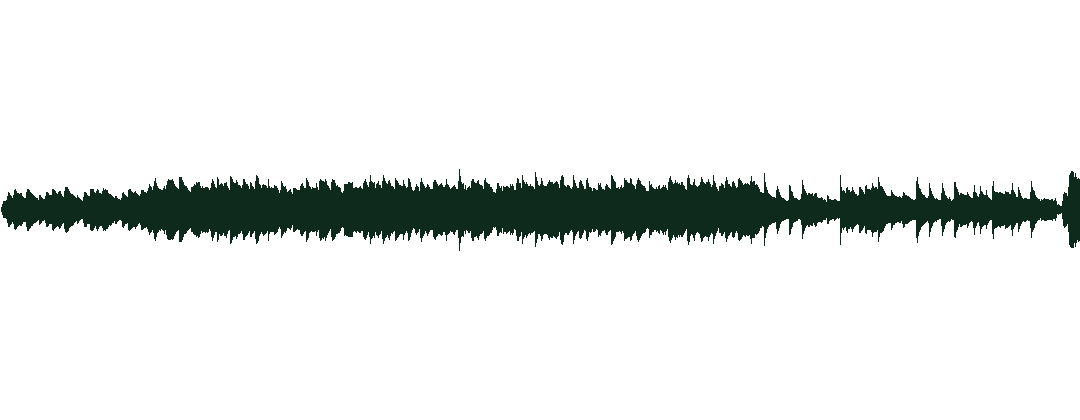
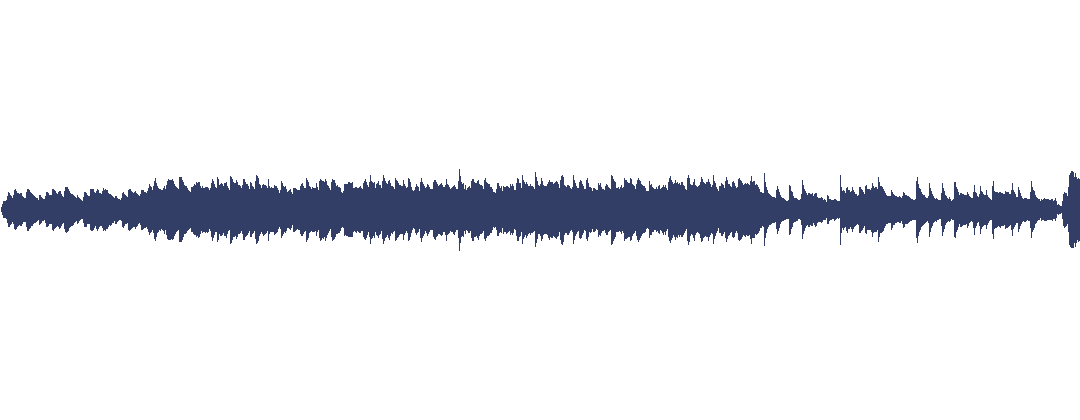
FEAT: the Pages site takes the Digital Samba design system (Sergiy Pasichnyk's restyle as built in ds-calendar): system UI type, DS blue actions, a navy field, radii 4/8/12, and the footer says it is not made by Anthropic
Claude-Session: https://claude.ai/code/session_01PgLv3bh7g33YfCZwgboeXq

Changed region(s): [[0.0, 0.4024, 1.0, 0.5881]]

diff --git a/site/style.css b/site/style.css
@@ -1,16 +1,21 @@
-/* claude-code-video-toolkit. Direction: the sentence is the layout (taste-skill, seed 1558565784).
-   One face (Switzer), bottle-green ink on off-white, yellow as the one accent and the footer field. */
+/* claude-code-video-toolkit. Composition: the sentence is the layout (taste-skill, seed 1558565784).
+   Colour and type: the Digital Samba design system (Sergiy Pasichnyk's DS restyle, SAMBA-9486, as built in
+   ds-calendar): system UI type, DS blue #3771e0 for actions, navy #323E66 for the dark field, radii 4/8/12. */
 :root {
-  --bg: #f7f7f7;
-  --surface: #ebebeb;
-  --ink: #0d2a1c;
-  --muted: #5f6b64;
-  --accent: #f6e016;
-  --accent-strong: #e8d000;
-  --accent-ink: #0d2a1c;
+  --bg: #ffffff;
+  --surface: #f1f2f4;
+  --ink: #121418;
+  --muted: #5e667a;
+  --accent: #3771e0;
+  --accent-strong: #2f63c9;
+  --accent-ink: #ffffff;
+  --navy: #323e66;
+  --navy-deep: #232d49;
+  --on-dark: #ffffff;
+  --on-dark-muted: #c9cfe0;
 
-  --face: "Switzer", system-ui, -apple-system, "Segoe UI", sans-serif;
-  --code: ui-monospace, SFMono-Regular, Menlo, Consolas, monospace;
+  --face: system-ui, -apple-system, "Segoe UI", Roboto, Arial, Helvetica, sans-serif;
+  --code: ui-monospace, SFMono-Regular, Menlo, Consolas, monospace; /* taste-skill-ignore: used only by pre and code */
 
   /* five sizes */
   --step-small: clamp(0.875rem, 0.84rem + 0.1vw, 0.9375rem);
@@ -22,7 +27,8 @@
 
   --margin: clamp(20px, 2.8vw, 40px);
   --gap-section: clamp(112px, 14vw, 220px);
-  --radius: 6px;
+  --radius: 8px;
+  --radius-frame: 12px;
 
   --ease-out: cubic-bezier(0.22, 1, 0.36, 1);
   --ease-expo: cubic-bezier(0.16, 1, 0.3, 1);
@@ -49,7 +55,7 @@ a { color: inherit; }
 .frame { padding-left: var(--margin); padding-right: var(--margin); }
 .grid { display: grid; grid-template-columns: repeat(12, minmax(0, 1fr)); column-gap: clamp(12px, 1.6vw, 24px); }
 
-h1, h2, h3 { font-weight: 600; letter-spacing: -0.04em; line-height: 0.95; margin: 0; }
+h1, h2, h3 { font-weight: 700; letter-spacing: -0.035em; line-height: 0.98; margin: 0; }
 h2 { font-size: var(--step-head); }
 p { margin: 0; }
 
@@ -57,7 +63,7 @@ p { margin: 0; }
   text-decoration-thickness: 0.07em; transition: text-decoration-color var(--t-hover) ease; }
 .button {
   display: inline-block; background: var(--accent); color: var(--accent-ink); text-decoration: none;
-  font-weight: 500; padding: 0.7em 1.1em; border-radius: var(--radius); border: 0; font: inherit; cursor: pointer;
+  font-weight: 700; padding: 0.7em 1.1em; border-radius: var(--radius); border: 0; font: inherit; cursor: pointer;
   transition: transform var(--t-press) var(--ease-out), background-color var(--t-hover) ease;
 }
 .button:active { transform: scale(0.97); }
@@ -68,7 +74,7 @@ p { margin: 0; }
 
 /* navigation */
 .nav { display: flex; align-items: center; justify-content: space-between; gap: 16px; padding-top: 22px; padding-bottom: 22px; }
-.nav .mark { font-weight: 600; text-decoration: none; letter-spacing: -0.02em; }
+.nav .mark { font-weight: 700; text-decoration: none; letter-spacing: -0.02em; }
 .nav ul { display: flex; gap: clamp(14px, 2vw, 28px); list-style: none; margin: 0; padding: 0; align-items: center; }
 .nav ul a:not(.button) { text-decoration: none; }
 @media (max-width: 720px) { .nav .hide-sm { display: none; } }
@@ -79,7 +85,7 @@ p { margin: 0; }
 .hero h1 .line { display: block; }
 .slot {
   display: inline-block; vertical-align: baseline; position: relative; top: 0.06em;
-  height: 0.74em; width: 1.95em; border-radius: 0.09em; overflow: hidden; background: var(--surface);
+  height: 0.74em; width: 1.95em; border-radius: 0.06em; overflow: hidden; background: var(--surface);
 }
 .slot video, .slot img { width: 100%; height: 100%; object-fit: cover; }
 .hero .lede { max-width: 34em; margin-top: clamp(28px, 3vw, 44px); font-size: var(--step-lead); line-height: 1.35; }
@@ -88,12 +94,12 @@ p { margin: 0; }
 
 section { margin-top: var(--gap-section); }
 .band { margin: 0; }
-.band img { width: 100%; height: auto; aspect-ratio: 1920 / 822; object-fit: cover; }
+.band img { width: 100%; border-radius: 0; height: auto; aspect-ratio: 1920 / 822; object-fit: cover; }
 .band figcaption { font-size: var(--step-small); color: var(--muted); margin-top: 12px; }
 
 /* work: names as one paragraph */
 .names-h { font-size: var(--step-head); margin-bottom: 28px; }
-.names { font-size: var(--step-statement); line-height: 1.3; font-weight: 500; letter-spacing: -0.025em; max-width: 60ch; }
+.names { font-size: var(--step-statement); line-height: 1.3; font-weight: 400; letter-spacing: -0.025em; max-width: 60ch; }
 .names a { text-decoration: none; color: var(--muted); transition: color var(--t-hover) ease; }
 .names a .t { display: inline-block; vertical-align: -0.16em; height: 1.05em; width: 1.75em; margin: 0 0.08em 0 0.22em;
   border-radius: 0.08em; overflow: hidden; transform-origin: left center; transition: transform var(--t-hover) var(--ease-out); }
@@ -106,18 +112,18 @@ section { margin-top: var(--gap-section); }
 
 /* how it works: drag through the stages */
 .stages { display: grid; grid-template-columns: 1fr 1fr; min-height: 80svh; margin-left: calc(var(--margin) * -1); margin-right: calc(var(--margin) * -1); }
-.stages .clause { background: var(--ink); color: var(--bg); padding: clamp(28px, 4vw, 64px) var(--margin); display: flex; flex-direction: column; justify-content: space-between; gap: 32px; }
-.stages .clause h2 { color: var(--bg); max-width: 9em; min-height: 2em; transition: opacity 200ms ease; }
+.stages .clause { background: var(--navy); color: var(--on-dark); padding: clamp(28px, 4vw, 64px) var(--margin); display: flex; flex-direction: column; justify-content: space-between; gap: 32px; }
+.stages .clause h2 { color: var(--on-dark); max-width: 9em; min-height: 2em; transition: opacity 200ms ease; }
 .stages .clause .cost { font-size: var(--step-lead); line-height: 1.3; max-width: 22em; }
-.stages .clause .cost b { color: var(--accent); font-weight: 600; }
+.stages .clause .cost b { color: var(--on-dark); font-weight: 700; }
 .stages .proof { background: var(--surface); display: flex; align-items: center; justify-content: center; padding: clamp(28px, 4vw, 64px) var(--margin); }
 .proof-in { width: min(100%, 560px); display: grid; gap: 16px; transition: opacity 200ms ease; }
 .proof-in img { width: 100%; height: 260px; object-fit: cover; border-radius: var(--radius); background: var(--bg); }
-.term { margin: 0; background: #0b1f15; color: #dfe8e2; border-radius: var(--radius); padding: 20px 22px; font: 400 var(--step-small)/1.6 var(--code); white-space: pre-wrap; word-break: break-word; }
+.term { margin: 0; background: var(--ink); color: #e0e0e0; border-radius: var(--radius); padding: 20px 22px; font: 400 var(--step-small)/1.6 var(--code); white-space: pre-wrap; word-break: break-word; }
 .term .cmd { color: #ffffff; display: block; margin-bottom: 10px; }
-.term .cmd::before { content: "$ "; color: var(--accent); }
-.term .out { color: #a8bdb1; }
-.term .ok { color: var(--accent); }
+.term .cmd::before { content: "$ "; color: #7ea6ee; }
+.term .out { color: #b4b8c2; }
+.term .ok { color: #7ea6ee; }
 .slider { grid-column: 1 / -1; background: var(--bg); padding: 28px var(--margin) 8px; }
 .slider input { width: 100%; appearance: none; -webkit-appearance: none; height: 8px; border-radius: 0; cursor: pointer;
   background: linear-gradient(to right, var(--ink) var(--fill, 0%), var(--surface) var(--fill, 0%)); /* taste-skill-ignore: a range track's fill, not a decorative gradient */ }
@@ -128,7 +134,7 @@ section { margin-top: var(--gap-section); }
 .slider ol li:nth-child(n+2) { text-align: center; }
 .slider ol li:last-child { text-align: right; }
 .slider ol button { all: unset; cursor: pointer; }
-.slider ol button[aria-pressed="true"] { color: var(--ink); font-weight: 500; }
+.slider ol button[aria-pressed="true"] { color: var(--ink); font-weight: 700; }
 @media (max-width: 900px) {
   .stages { grid-template-columns: 1fr; }
   .stages .proof { order: -2; min-height: 46svh; }
@@ -144,12 +150,12 @@ section { margin-top: var(--gap-section); }
 .routes h2 { padding-left: 3vw; max-width: 12em; }
 .routes .body { margin-top: 96px; align-items: end; }
 .routes figure { grid-column: 1 / span 4; margin: 0; }
-.routes figure img { width: 100%; aspect-ratio: 4 / 5; object-fit: cover; border-radius: var(--radius); }
+.routes figure img { width: 100%; aspect-ratio: 4 / 5; object-fit: cover; border-radius: var(--radius-frame); }
 .routes figure figcaption { font-size: var(--step-small); color: var(--muted); margin-top: 10px; }
 .routes .word { grid-column: 7; font-size: var(--step-small); color: var(--muted); align-self: start; }
 .routes table { grid-column: 8 / span 5; border-collapse: collapse; width: 100%; font-size: var(--step-body); }
 .routes td { padding: 13px 0; vertical-align: top; }
-.routes td.kind a { text-decoration: none; font-weight: 500; }
+.routes td.kind a { text-decoration: none; font-weight: 700; }
 .routes td.uses { color: var(--muted); padding-left: 16px; }
 .routes td.cost { text-align: right; white-space: nowrap; padding-left: 16px; }
 .routes tr.group td { padding-top: 40px; }
@@ -164,7 +170,7 @@ section { margin-top: var(--gap-section); }
 }
 
 /* start: a sentence with a blank */
-.start .sentence { font-size: var(--step-head); font-weight: 600; letter-spacing: -0.04em; line-height: 1.05; max-width: 15em; }
+.start .sentence { font-size: var(--step-head); font-weight: 700; letter-spacing: -0.04em; line-height: 1.05; max-width: 15em; }
 .start .blank { display: inline-flex; align-items: center; gap: 0; vertical-align: baseline; }
 .start .blank-in { background: var(--surface); color: var(--ink); padding: 0.06em 0.3em 0.1em; border-radius: var(--radius) 0 0 var(--radius); white-space: nowrap; }
 .start .button.copy { font-size: var(--step-body); padding: 0.9em 1em; align-self: stretch; display: inline-flex; align-items: center; border-radius: 0 var(--radius) var(--radius) 0; vertical-align: middle; }
@@ -174,10 +180,10 @@ section { margin-top: var(--gap-section); }
 @media (min-width: 900px) { .start .then { grid-template-columns: 6fr 6fr; align-items: start; } }
 
 /* footer: the address as the headline */
-.foot { margin-top: var(--gap-section); background: var(--accent); color: var(--accent-ink); min-height: 90svh; display: flex; flex-direction: column; justify-content: space-between; padding-top: 40px; padding-bottom: 28px; }
+.foot { margin-top: var(--gap-section); background: var(--accent); color: var(--on-dark); min-height: 90svh; display: flex; flex-direction: column; justify-content: space-between; padding-top: 40px; padding-bottom: 28px; }
 .foot .top { display: flex; justify-content: space-between; gap: 24px; font-size: var(--step-small); flex-wrap: wrap; }
 .foot .top .notes { display: flex; gap: clamp(18px, 3vw, 44px); flex-wrap: wrap; }
-.foot .big { font-weight: 600; letter-spacing: -0.045em; line-height: 0.95; font-size: clamp(1.7rem, 7.4vw, 8.5rem); text-decoration: none; display: block; margin: 48px 0 40px; }
+.foot .big { font-weight: 700; letter-spacing: -0.045em; line-height: 0.95; font-size: clamp(1.7rem, 7.4vw, 8.5rem); text-decoration: none; display: block; margin: 48px 0 40px; }
 .foot .big span { display: block; }
 .foot .meta { display: grid; grid-template-columns: 1fr auto 1fr; gap: 16px; font-size: var(--step-small); }
 .foot .meta .c { text-align: center; }
@@ -201,7 +207,7 @@ section { margin-top: var(--gap-section); }
 .split p + p, .split p + ul, .split ul + p, .split p + ol, .split ol + p { margin-top: 16px; }
 .split ul, .split ol { padding-left: 1.2em; margin: 0; }
 .split li + li { margin-top: 10px; }
-.show img, .show video { width: 100%; height: auto; border-radius: var(--radius); }
+.show img, .show video { width: 100%; height: auto; border-radius: var(--radius-frame); }
 .show figure { margin: 0; }
 .show figcaption { font-size: var(--step-small); color: var(--muted); margin-top: 10px; }
 .show .pair { display: grid; grid-template-columns: 1fr 1fr; gap: 14px; }
@@ -209,14 +215,14 @@ section { margin-top: var(--gap-section); }
 .facts { width: 100%; border-collapse: collapse; font-size: var(--step-body); }
 .facts td { padding: 11px 0; vertical-align: top; }
 .facts td + td { text-align: right; padding-left: 16px; }
-.facts tr.total td { font-weight: 600; padding-top: 22px; }
-.field { background: var(--ink); color: var(--bg); padding-top: clamp(56px, 8vw, 120px); padding-bottom: clamp(56px, 8vw, 120px); }
-.field figcaption { color: #b9c7bf; }
-.field .button { color: var(--accent-ink); }
-.field h2 { color: var(--bg); }
-.field .split p, .field .split li { color: var(--bg); }
-.field code { background: #1d3a2b; color: #fff; }
-.field pre { background: #1d3a2b; color: #fff; }
+.facts tr.total td { font-weight: 700; padding-top: 22px; }
+.field { background: var(--navy); color: var(--on-dark); padding-top: clamp(56px, 8vw, 120px); padding-bottom: clamp(56px, 8vw, 120px); }
+.field figcaption { color: var(--on-dark-muted); }
+.field .button { background: var(--on-dark); color: var(--navy); }
+.field h2 { color: var(--on-dark); }
+.field .split p, .field .split li { color: var(--on-dark); }
+.field code { background: var(--navy-deep); color: #fff; }
+.field pre { background: var(--navy-deep); color: #fff; }
 .field pre code { background: none; color: inherit; }
 code { font-family: var(--code); font-size: 0.86em; background: var(--surface); padding: 0.08em 0.32em; border-radius: 4px; }
 pre code { background: none; padding: 0; font-size: inherit; }

diff --git a/site/extending-ltx-clips.html b/site/extending-ltx-clips.html
@@ -8,8 +8,6 @@
 <meta property="og:title" content="Why AI video clips freeze or loop mid-shot, and the fix">
 <meta property="og:description" content="An image-to-video clip runs about 5 seconds; a shot runs 7 to 11. Holding the last frame left 63% of an 11-second shot frozen, playing it back and forth made 29% of frames repeats. Continuing the clip from its own last good frame measured 0% of both.">
 <meta property="og:image" content="https://digitalsamba.github.io/claude-code-video-toolkit/media/stage-sheet.jpg">
-<link rel="preconnect" href="https://api.fontshare.com"><link rel="preconnect" href="https://cdn.fontshare.com" crossorigin>
-<link href="https://api.fontshare.com/v2/css?f[]=switzer@400,500,600&display=swap" rel="stylesheet">
 <link rel="stylesheet" href="style.css">
 <script src="site.js" defer></script>
 </head>

diff --git a/site/release-notes-video.html b/site/release-notes-video.html
@@ -8,8 +8,6 @@
 <meta property="og:title" content="Release-notes videos from source code, with Claude Code">
 <meta property="og:description" content="Product demo and release-notes videos with no screen recording: Claude Code rebuilds the app's screens from its source as React, then drives them with a scripted cursor and camera timed to the narration.">
 <meta property="og:image" content="https://digitalsamba.github.io/claude-code-video-toolkit/img/ds-release-650.jpg">
-<link rel="preconnect" href="https://api.fontshare.com"><link rel="preconnect" href="https://cdn.fontshare.com" crossorigin>
-<link href="https://api.fontshare.com/v2/css?f[]=switzer@400,500,600&display=swap" rel="stylesheet">
 <link rel="stylesheet" href="style.css">
 <script src="site.js" defer></script>
 </head>

diff --git a/site/christmas-team-video.html b/site/christmas-team-video.html
@@ -8,8 +8,6 @@
 <meta property="og:title" content="A Christmas video of your team, made with Claude Code">
 <meta property="og:description" content="Turn your team into A Christmas Carol: their own photos, costumed and animated, the in-jokes from your team chat, an original carol. A 90-second ad for about $2, made with Claude Code.">
 <meta property="og:image" content="https://digitalsamba.github.io/claude-code-video-toolkit/img/the-great-return-short.jpg">
-<link rel="preconnect" href="https://api.fontshare.com"><link rel="preconnect" href="https://cdn.fontshare.com" crossorigin>
-<link href="https://api.fontshare.com/v2/css?f[]=switzer@400,500,600&display=swap" rel="stylesheet">
 <link rel="stylesheet" href="style.css">
 <script src="site.js" defer></script>
 </head>

diff --git a/site/explainer-shorts.html b/site/explainer-shorts.html
@@ -8,8 +8,6 @@
 <meta property="og:title" content="Vertical explainer shorts with Claude Code">
 <meta property="og:description" content="9:16 concept-explainer shorts for YouTube Shorts, Reels and TikTok, made with Claude Code: per-scene narration, cards with legible text, AI b-roll and karaoke captions, for under a dollar.">
 <meta property="og:image" content="https://digitalsamba.github.io/claude-code-video-toolkit/img/sky-blue-short.jpg">
-<link rel="preconnect" href="https://api.fontshare.com"><link rel="preconnect" href="https://cdn.fontshare.com" crossorigin>
-<link href="https://api.fontshare.com/v2/css?f[]=switzer@400,500,600&display=swap" rel="stylesheet">
 <link rel="stylesheet" href="style.css">
 <script src="site.js" defer></script>
 </head>

diff --git a/site/index.html b/site/index.html
@@ -8,8 +8,6 @@
 <meta property="og:title" content="claude-code-video-toolkit">
 <meta property="og:description" content="Type a prompt, get a video. Open source, on models that cost cents.">
 <meta property="og:image" content="https://digitalsamba.github.io/claude-code-video-toolkit/media/made-with.jpg">
-<link rel="preconnect" href="https://api.fontshare.com"><link rel="preconnect" href="https://cdn.fontshare.com" crossorigin>
-<link href="https://api.fontshare.com/v2/css?f[]=switzer@400,500,600&display=swap" rel="stylesheet">
 <link rel="stylesheet" href="style.css">
 <script src="site.js" defer></script>
 </head>

diff --git a/scripts/build_site_pages.py b/scripts/build_site_pages.py
@@ -18,8 +18,6 @@ HEAD = """<!doctype html>
 <meta property="og:title" content="{title}">
 <meta property="og:description" content="{desc}">
 <meta property="og:image" content="https://digitalsamba.github.io/claude-code-video-toolkit/{og}">
-<link rel="preconnect" href="https://api.fontshare.com"><link rel="preconnect" href="https://cdn.fontshare.com" crossorigin>
-<link href="https://api.fontshare.com/v2/css?f[]=switzer@400,500,600&display=swap" rel="stylesheet">
 <link rel="stylesheet" href="style.css">
 <script src="site.js" defer></script>
 </head>
